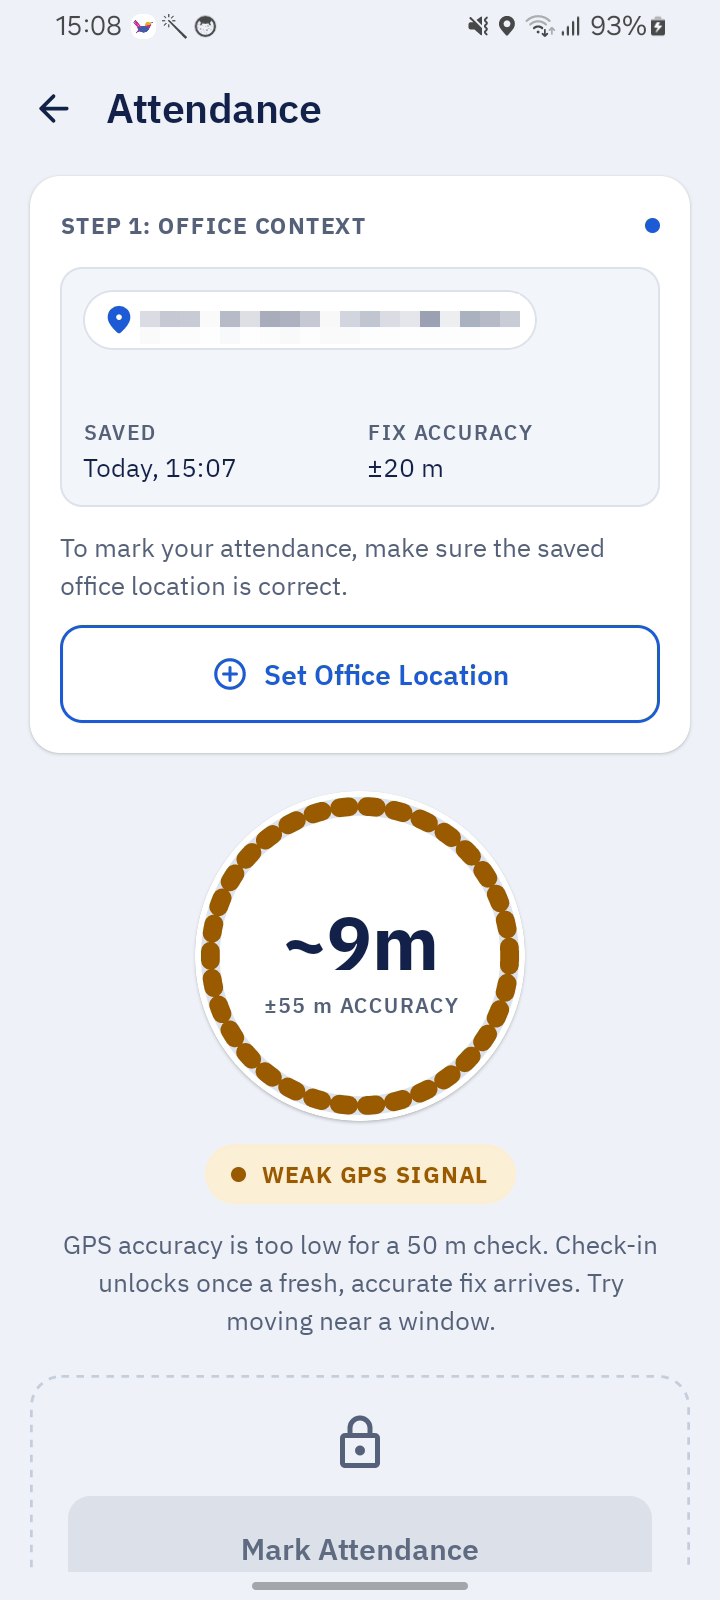
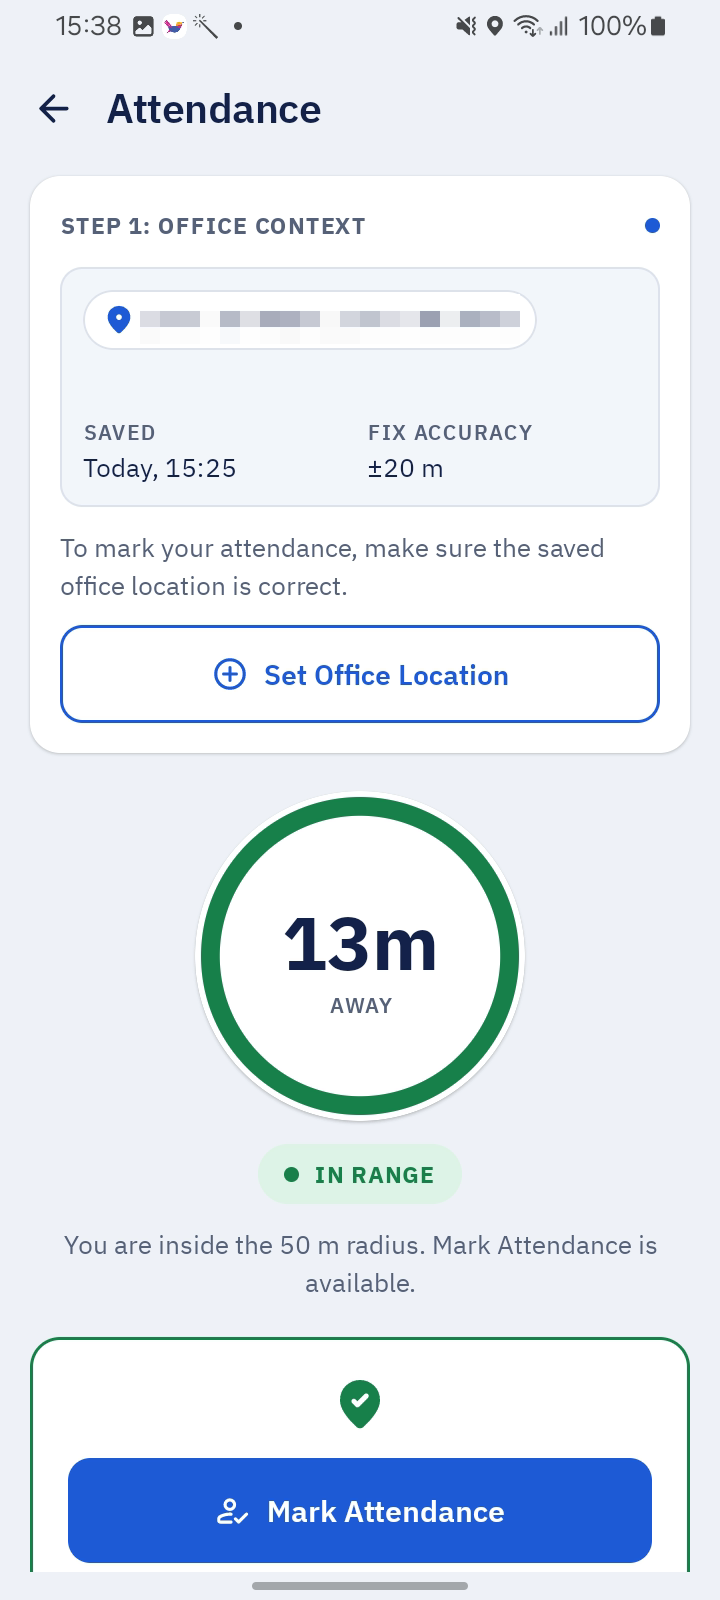
docs(readme): address the submission review

diff --git a/README.md b/README.md
@@ -5,8 +5,8 @@ It combines two features in one APK:
 
 - **Geo-fenced attendance** (native Kotlin + Jetpack Compose). Save the office location from the
   phone's GPS, watch the live distance to it, and mark attendance only within 50 meters.
-- **Camera and resilient uploads** (Flutter). A custom camera with pinch zoom, a zoom slider, lens
-  zoom presets, flash, and tap-to-focus captures photos into batches. Submitted batches go into a
+- **Camera and resilient uploads** (Flutter). A custom camera with pinch zoom, a zoom slider, zoom
+  presets, flash, and tap-to-focus captures photos into batches. Submitted batches go into a
   durable queue that uploads in the background, survives restarts, and retries automatically when
   the network returns.
 
@@ -76,7 +76,7 @@ network. Widgets and composables never touch the database, files, GPS, or upload
 
 | Cubit | Owns | Main intents |
 |-------|------|--------------|
-| `CameraCubit` | Camera lifecycle and controls: permission (denied / permanently denied), no camera, opening, ready, error; zoom within the camera's real range; flash Off/Auto/On (only with a flash unit); the focus marker. Releases the camera when the app pauses or the Upload Manager covers it and reopens it on return. | `start`, `retry`, `appPaused`/`appResumed`, `screenCovered`/`screenUncovered`, `setZoom`, `pinchStarted`/`pinchUpdated`, `cycleFlash`, `tapToFocus` |
+| `CameraCubit` | Camera lifecycle and controls: initializing, permission denied or permanently denied (with Open settings), unavailable (no camera or it failed to open), ready; zoom within the camera's real range; flash Off/Auto/On (only with a flash unit); the focus marker. Releases the camera when the app pauses or the Upload Manager covers it and reopens it on return. | `start`, `retry`, `appPaused`/`appResumed`, `screenCovered`/`screenUncovered`, `setZoom`, `pinchStarted`/`pinchUpdated`, `cycleFlash`, `tapToFocus` |
 | `BatchCubit` | The open batch being captured: photo count and last thumbnail, saving state, notices (capture failed, batch queued, empty batch). Submitting freezes the batch as queued and schedules the upload work. | `load`, `capture`, `submit`, `setScenario` (mock API), `appResumed` |
 | `UploadsCubit` | The Upload Manager: queued batches with per-photo status (pending, uploading, retrying, uploaded, failed), attempt counts, last errors, and a connectivity hint. Polls the database while visible. | `start`, `load`, `retry`, `remove`, `appResumed` |
 
@@ -101,7 +101,8 @@ fixes each have their own message and action.
 - The sync engine claims one photo at a time (claims expire after 2 minutes, so a killed run never
   leaves a photo stuck in "uploading"), calls the API, and records the result. Every attempt counts;
   after 5 the photo is **failed** and waits for a manual **Retry**, which resets its attempts.
-  A photo whose file has disappeared is failed with "Local file missing" and can be removed.
+  A permanent rejection fails the photo at once, and a photo whose file has disappeared is failed
+  with "Local file missing" and can be removed.
 - The upload API does not exist, so it is a mock (`MockUploadApi`) with repeatable scenarios:
   success, fail once, timeout (30 s), no network, and permanent failure. Choose one from the
   **MOCK API** sheet behind the camera's settings icon; the choice persists and applies to
@@ -111,10 +112,11 @@ fixes each have their own message and action.
 
 The app was built with **Claude Code** (Claude Opus 5.5) for requirements analysis, planning,
 project rules, and implementation, and **Claude Design** for the UI design. The developer set the
-rules, approved every plan and decision, and reviewed the work; tests were written first and the
-app was checked on a physical phone after each task. The full record, with each session's prompts,
-decisions, and evidence, is in [`docs/agent-log.md`](docs/agent-log.md). The essential prompts,
-quoted as typed:
+rules, approved every plan and decision, and reviewed the work; tests were written first, and each
+task was run on Android (the Galaxy A04s, or an emulator with test locations for task 03). The final
+release build was then exercised end to end on the phone. The full record, with each session's
+prompts, decisions, and evidence, is in [`docs/agent-log.md`](docs/agent-log.md). A selection of the
+essential prompts, quoted as typed:
 
 **Requirements review and task breakdown**
 
@@ -161,8 +163,9 @@ quoted as typed:
 
 How the work was organized: [`AGENTS.md`](AGENTS.md) holds the agent rules, `docs/tasks/` the
 backlog, and `docs/plans/` one approved plan per task. Claude Code hooks in `.claude/` block edits to
-protected files and run `dart format` and `dart analyze` after Dart edits. Each finished task was
-checked by a separate read-only review agent before merging.
+protected files and run `dart format` and `dart analyze` after Dart edits. A separate read-only
+review agent checked tasks 01, 02, and the failure-handling fix; to meet the deadline, tasks 03-10
+were merged without one, and a final review covered the submission.
 
 ## How to run
 
@@ -184,7 +187,16 @@ flutter build apk --release       # build/app/outputs/flutter-apk/app-release.ap
 
 Release builds are signed with the key in `android/key.properties` when that file exists (it is
 gitignored). Without it, a clone's release build is signed with the local debug key, so the command
-above works as is.
+above works as is. To sign with your own key, create `android/key.properties`:
+
+```properties
+storeFile=/absolute/path/to/upload-keystore.jks
+storePassword=...
+keyAlias=upload
+keyPassword=...
+```
+
+A relative `storeFile` is resolved from `android/app/`.
 
 ### Tests
 
@@ -193,6 +205,9 @@ flutter analyze
 flutter test                                       # Flutter unit and widget tests
 cd android && ./gradlew :app:testDebugUnitTest     # native attendance unit tests
 ```
+
+`android/gradlew` is generated by the first `flutter run` or `flutter build`, so run one of those
+before the Gradle command in a fresh clone.
 
 ### Permissions
 
@@ -206,8 +221,10 @@ cd android && ./gradlew :app:testDebugUnitTest     # native attendance unit test
    ring shows you within 50 m.
 2. **Camera & Uploads:** capture photos, tap **UPLOAD BATCH** to queue the batch, and watch it in
    the Upload Manager (cloud icon). Start another batch at any time.
-3. **Offline test:** pick a scenario in the MOCK API sheet (settings icon), or turn on airplane mode,
-   submit a batch, then turn the network back on. The queued photos upload without opening the app.
+3. **Offline test:** turn on airplane mode, submit a batch, then turn the network back on. The
+   queued photos upload without opening the app.
+4. **Failure test:** pick a scenario in the MOCK API sheet (settings icon) and submit a batch.
+   The scenario stays until you switch back to **Success**.
 
 ## Background uploads: what to expect
 
@@ -235,4 +252,19 @@ cd android && ./gradlew :app:testDebugUnitTest     # native attendance unit test
   still capture needs neither.
 - iOS is not supported (`ios/` is unused starter scaffolding).
 
-Tested on a Samsung Galaxy A04s (Android 14).
+### Not verified on a device
+
+These are covered by automated tests only, or not at all:
+
+- Swiping the app away from Recents, or the process being recreated, while uploads are running.
+- The Timeout and Permanent-failure mock scenarios, and manual **Retry** and **Remove** in the
+  Upload Manager.
+- The flash firing during capture.
+- The start-up error screen (database cannot open) and the storage-error messages.
+- The attendance 10 s no-fix message, and large font scales.
+
+Tested on a Samsung Galaxy A04s (Android 14) with the signed release APK: location permission
+denied and granted, office saved, weak GPS blocking a mark, a mark at 29 m, location services off,
+out of range at 67 m, camera permission denied and granted, pinch, slider, presets, tap focus,
+flash modes, several batches, offline queueing with automatic upload in the foreground and in the
+background, and the Fail-once scenario retrying after backoff.
